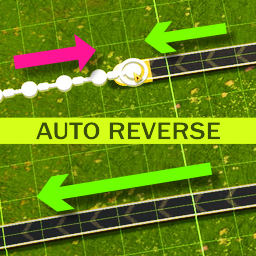
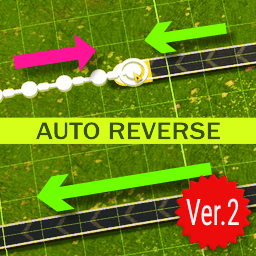
v2.0.0

Changed region(s): [[0.6875, 0.6562, 1.0, 1.0], [0.5625, 0.3125, 0.5938, 0.3438]]

diff --git a/AutoReverse/AutoReverse.cs b/AutoReverse/AutoReverse.cs
@@ -10,7 +10,7 @@ using UnityEngine.UI;
 
 namespace HTAutoReverse
 {
-    [BepInPlugin(__GUID__, __NAME__, "1.0.1")]
+    [BepInPlugin(__GUID__, __NAME__, "2.0.0")]
     public class AutoReverse : BaseUnityPlugin
     {
         public const string __NAME__ = "AutoReverse";

diff --git a/README.md b/README.md
@@ -7,12 +7,32 @@ When placing a conveyor belt that will extend to/from the edge of an existing be
 
 If it is determined that the direction of the belt to be placed is to be reversed, the cursor tooltip will show "(Reverse)" and the color of the preview line will change to a blue-yellow stripe for notify.
 
+## OnTheSpot mode
+
+Holding down Ctrl key will automatically generate a preview of a straight line from the edge of the nearby belt to the cursor position. The preview will be automatically updated when you move the mouse cursor. There is no need to consider belt direction, as it will be corrected by the basic AutoReverse function.
+
+Clicking with Ctrl key will place belt and continue to look for the next preview target. Release the Ctrl key to return to normal mode.
+
+![screen shot](https://raw.githubusercontent.com/hetima/DSP_AutoReverse/main/screen.gif)
+
+## 説明
 
 コンベアベルトを延長設置するときに、既存のベルトと向きが相反するような繋ぎ方をした場合、正しく接続されるように方向を反転させます。  
 
 設置予定のベルトが反転される場合には、カーソルのツールチップに「(Reverse)」と表示され、プレビューラインの色を青と黄の縞模様に変化させて知らせます。
 
+## OnTheSpot モード
+
+ベルト敷設時に Ctrl キーを押していると近くのベルトの端からカーソルの位置まで直線のプレビューが自動生成されます。マウスカーソルを移動させるとプレビューは自動的に更新されます。ベルトの向きは AutoReverse の基本機能で補正されるので気にする必要はありません。
+
+Ctrl キーを押したままクリックするとそのまま敷設され、次のプレビュー対象を探します。Ctrl キーを離すと通常モードに戻ります。
+
 ## Release Notes
+
+### v2.0.0
+
+- Added OnTheSpot mode
+- Support connect to pre builded belt
 
 ### v1.0.1
 
